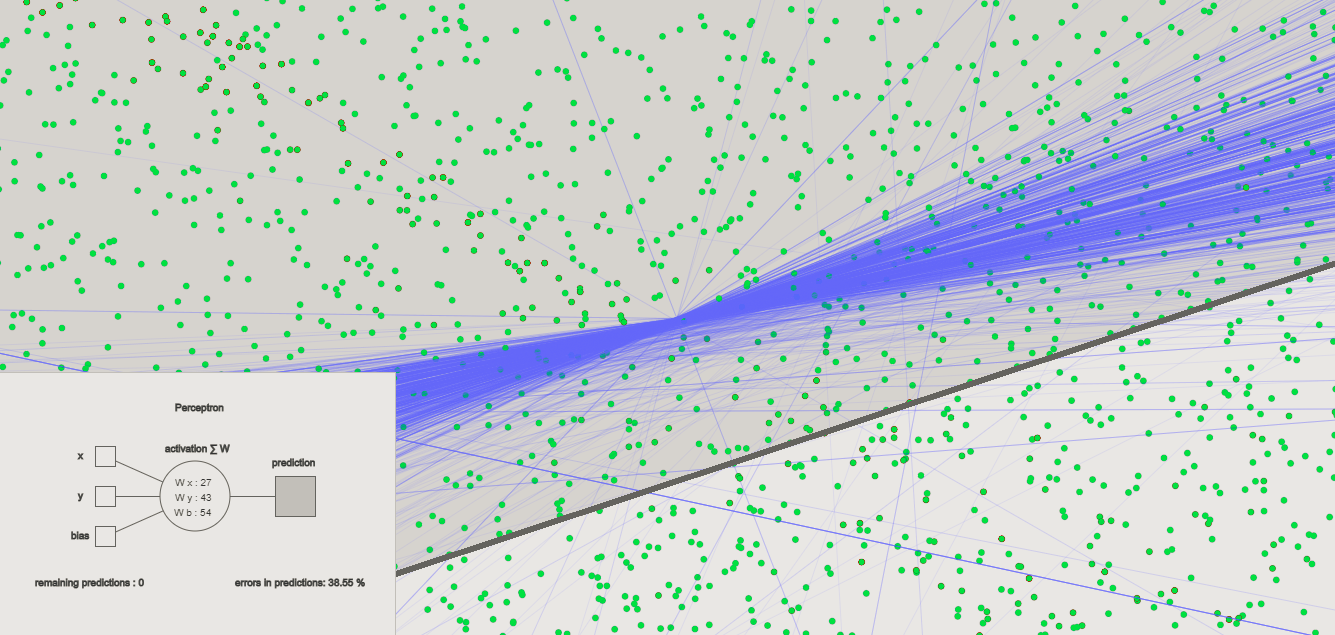
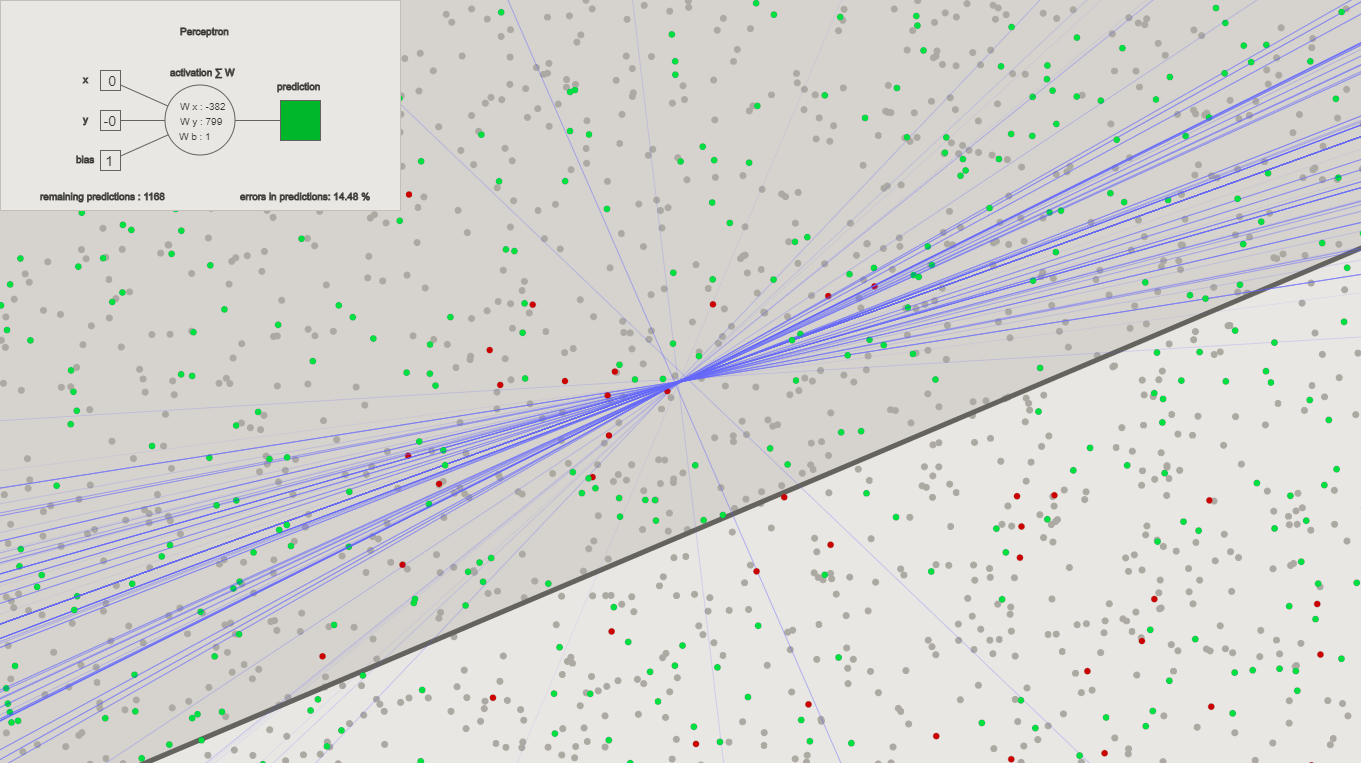
Altered UI position to top, so it better fits layout on mobile.

diff --git a/docs/sketch.js b/docs/sketch.js
@@ -68,7 +68,7 @@ function drawCartesianAxis() {
 function drawUiBG() {
     stroke(190);
     fill(230)
-    rect(0, 380 - 4, 400, WINDOW_HEIGHT)
+    rect(0, 0, 400, 210)
 }
 
 function drawUiFisrtInputBlock() {
@@ -165,7 +165,7 @@ function drawPredictionsText(textInput) {
     fill(50);
     textSize(10);
     textAlign(LEFT)
-    text(textInput, UI_COLUMN - (UI_GRID_SIZE * 3), UI_BOTTOM - UI_GRID_SIZE + 10);
+    text(textInput, UI_COLUMN - (UI_GRID_SIZE * 3), 200);
     text("Perceptron", UI_COLUMN * 2 - (UI_GRID_SIZE), UI_TOP + 5);
 }
 
@@ -173,7 +173,7 @@ function drawErrorsText(textInput) {
     fill(50);
     textSize(10);
     textAlign(LEFT)
-    text(textInput, (UI_COLUMN * 3) - 10 - (UI_GRID_SIZE * 3) + 10, UI_BOTTOM - UI_GRID_SIZE + 10);
+    text(textInput, (UI_COLUMN * 3) - 10 - (UI_GRID_SIZE * 3) + 10, 200);
 }
 
 function drawXYvalues(x, y) {
@@ -247,7 +247,7 @@ function setup() {
     
     drawClassificationShape(trainingLine);
     drawDataPointArray(dataPointsArray);
-    drawTrainingLine(trainingLine);
+   // drawTrainingLine(trainingLine);
 }
 
 function draw() {
@@ -260,7 +260,7 @@ function draw() {
     //this if makes a cycle of one epoch (or running all the trainingset once.)
     if (trainingIndex < dataPointsArray.length) {
 
-        drawTrainingLine(trainingLine);
+        //drawTrainingLine(trainingLine);
         
         input = [dataPointsArray[trainingIndex].x, dataPointsArray[trainingIndex].y, dataPointsArray[trainingIndex].bias];
         target = dataPointsArray[trainingIndex].label;

diff --git a/docs/util.js b/docs/util.js
@@ -20,7 +20,7 @@ const BIAS = 1
 //UI SIZES
 const UI_GRID_SIZE = 20;
 const UI_PADDING = 10;
-const UI_TOP = CANVAS_HEIGHT + UI_PADDING;
+const UI_TOP = UI_PADDING * 3;
 const UI_HALF_HEIGHT = Math.floor(UI_HEIGHT / 2) + UI_TOP - UI_PADDING;
 const UI_BOTTOM = WINDOW_HEIGHT;
 const UI_COLUMN = UI_GRID_SIZE * 5;
